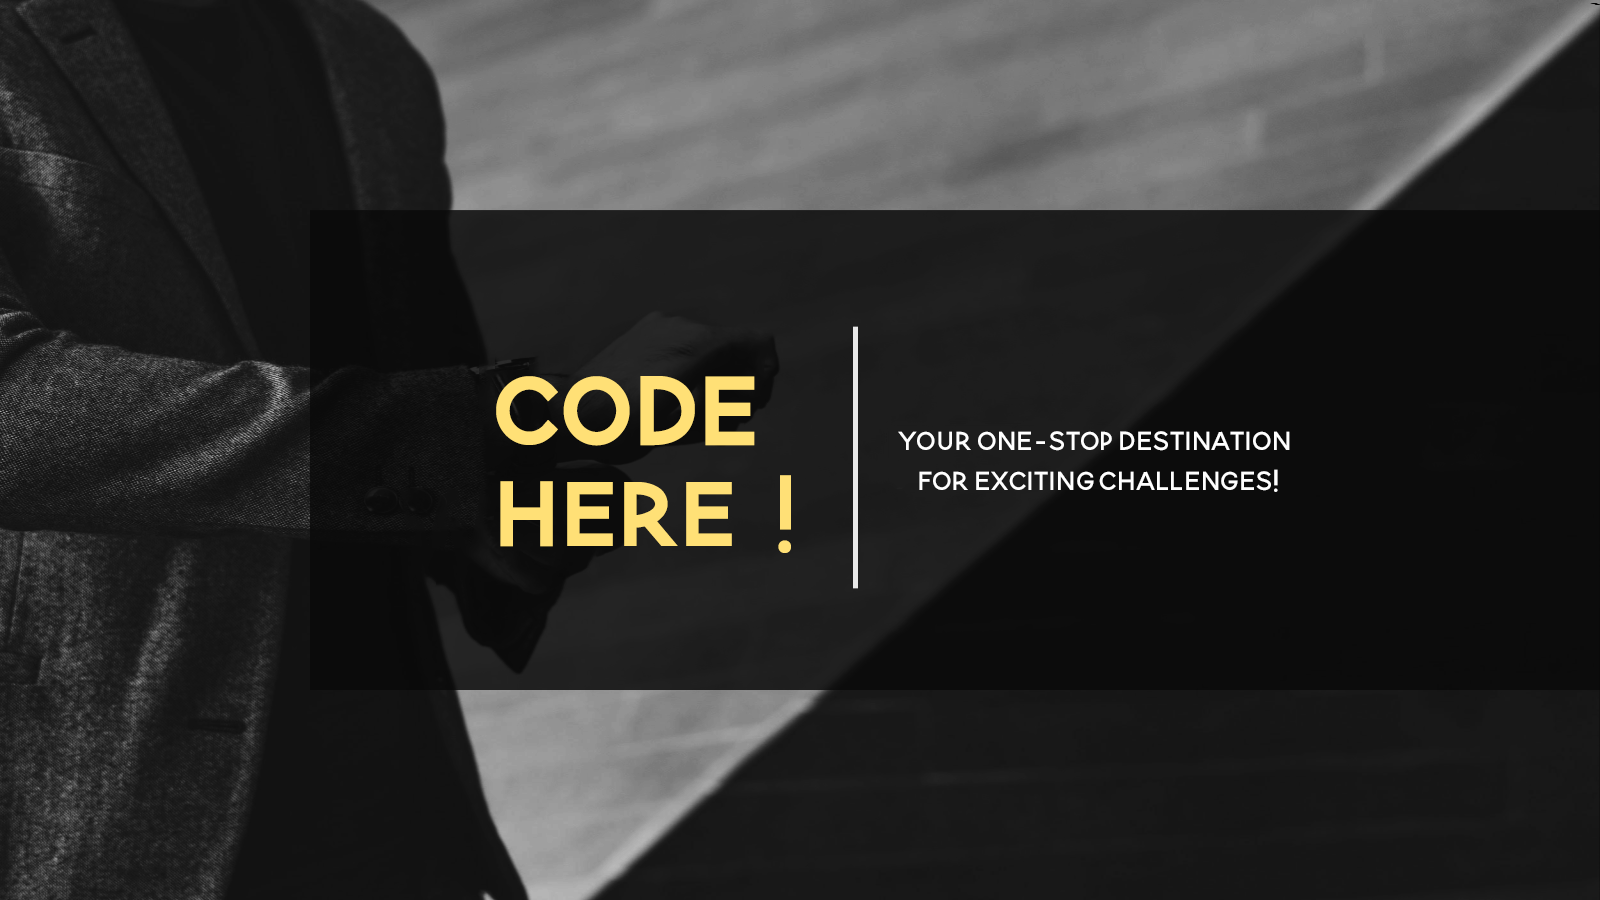
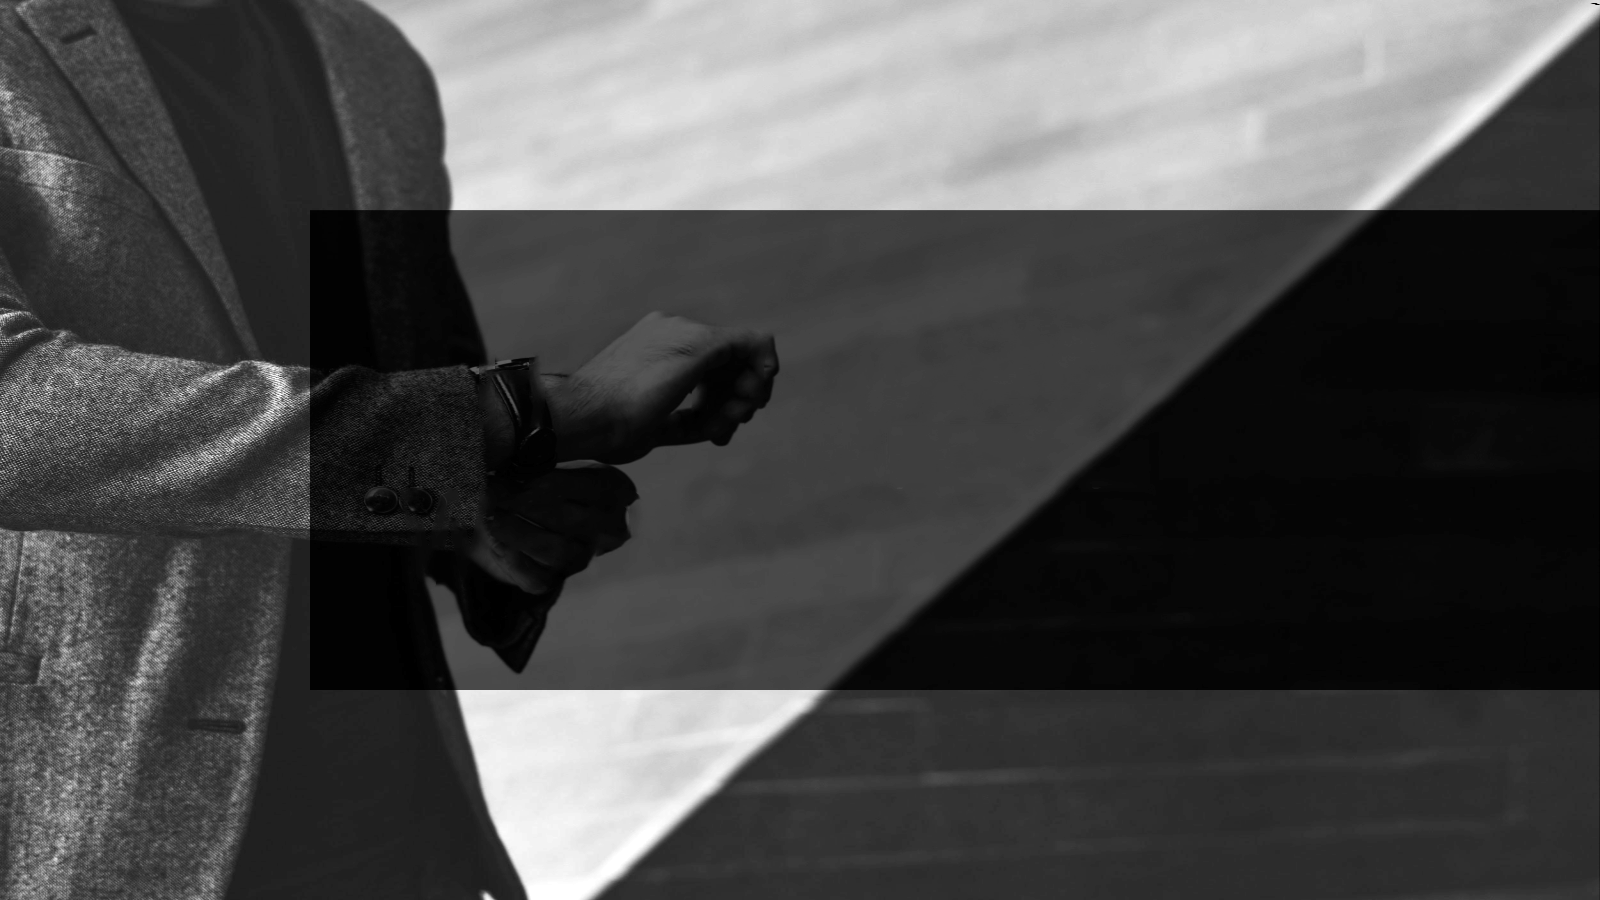
change testcase route, make footer link working, add hero background attachment as new png update admin dashboard making new .js for card

diff --git a/src/admin/DashBoard.js b/src/admin/DashBoard.js
@@ -1,50 +1,49 @@
 import React from 'react';
-import { Container, Row, Col } from 'react-bootstrap';
-import { Card } from 'react-bootstrap';
+import { Container } from 'react-bootstrap';
 import './DashBoard.css';
 import AdminNav from './AdminNav';
 import { useNavigate } from 'react-router-dom';
+import AdminDashBoardCard from './AdminDashBoardCard';
 
 function App() {
     const navigate = useNavigate();
+    const AddQuestion = {
+      title : 'Add Question',
+      text : 'Click here to add a new question to your database.',
+      color: "#ff7f50"
+    };
+    const AddTestCases = {
+      title:"Add Test Cases",
+      text:"Manage and add test cases for your questions.",
+      color:"#6cb2eb"
+    };
+    const UserMessage = {
+      title:"User Messages",
+      text:"View and respond to user messages and inquiries.",
+      color:"#51d8a9"
+    };
+    const AdminQuestionList={
+      title:"Question List",
+      text:"Update and Delete Question",
+      color:"orange"
+    };
+
   return (
     <div>
-        <AdminNav/>
-      <Container className='dashboard-container-card'>
-        <Row>
-          <Col md={4}>
-            <Card className="custom-card add-question" onClick={()=>{navigate('/admin2023/add-question')}}>
-              <Card.Body>
-                <Card.Title>Add Question</Card.Title>
-                <Card.Text>
-                  Click here to add a new question to your database.
-                </Card.Text>
-              </Card.Body>
-            </Card>
-          </Col>
-
-          <Col md={4}>
-            <Card className="custom-card add-test-cases" onClick={()=>{navigate('/admin2023/addtestcases')}}>
-              <Card.Body>
-                <Card.Title>Add Test Cases</Card.Title>
-                <Card.Text>
-                  Manage and add test cases for your questions.
-                </Card.Text>
-              </Card.Body>
-            </Card>
-          </Col>
-
-          <Col md={4}>
-            <Card className="custom-card user-messages">
-              <Card.Body>
-                <Card.Title>User Messages</Card.Title>
-                <Card.Text>
-                  View and respond to user messages and inquiries.
-                </Card.Text>
-              </Card.Body>
-            </Card>
-          </Col>
-        </Row>
+      <AdminNav/>
+      <Container className='admin-dashboard-container-card'>
+            <div onClick={()=>{navigate("/admin2023/add-question")}}>
+              <AdminDashBoardCard {...AddQuestion}/>
+            </div>
+            <div onClick={()=>{navigate("/admin2023/add-testcases")}}>
+              <AdminDashBoardCard {...AddTestCases}/>
+            </div>
+            <div>
+              <AdminDashBoardCard {...UserMessage}/>  
+            </div>
+            <div onClick={()=>{navigate("/admin2023/add-question")}}>
+              <AdminDashBoardCard {...AdminQuestionList}/>
+            </div>
       </Container>
     </div>
   );

diff --git a/src/Home/Home.js b/src/Home/Home.js
@@ -47,18 +47,18 @@ const Home = () =>{
   }
   const EasyCategory ={
     name : "EASY",
-    description: "This have `EASY` category where you can start",
-    color : 'green'
+    description: "It contains `EASY` category question where you can start",
+    color : '#03b903'
   };
   const MediumCategory = {
     name : "MEDIUM",
-    description : "This have `MEDIUM` category Question which you tried after good practice on easy questions",
-    color : '#caca09'
+    description : "It contains `MEDIUM` category Question which you tried after good practice on easy questions",
+    color : 'rgb(204, 204, 7)'
   };
   const HardCategory = {
     name : "HARD",
-    description : "This have `HARD` category question which you tried after good practice on medium questions",
-    color : 'red'
+    description : "It contains `HARD` category question which you tried after good practice on medium questions",
+    color : '#ff2e2e'
   }
   // Import testimonial components, content, and other necessary components
 
@@ -66,6 +66,16 @@ const Home = () =>{
     <div className='app'>
       <Nav />
       <section id="home" className="hero">
+          <div className='box'>
+            <div className="name"> 
+              <h1 >CODE</h1>
+              <h1 >HERE</h1>
+            </div>
+            <div className='quote'>
+              <p>YOUR ONE STOP DESTINATION</p>
+              <p>FOR EXCITING CHALLENGES!</p>
+            </div>
+          </div>
         <a className="cta-button" onClick={()=>{handleNavigateQuestionList(true,true,true)}}>Get Started</a>
       </section>
       <div className='bottom-container'>

diff --git a/src/Home/Home.css b/src/Home/Home.css
@@ -1,4 +1,5 @@
 /* App.css */
+@import url('https://fonts.googleapis.com/css2?family=Roboto+Slab:wght@400;800&display=swap');
 
 /* Global Styles */
 body {
@@ -23,7 +24,9 @@ body {
     height: 75vh;
     border-radius: 8px;
     display: flex;
-    flex-direction: column-reverse;
+    flex-direction: column;
+    justify-content: center;
+    align-items: center;
   }
   
   .hero h1 {
@@ -100,3 +103,50 @@ body {
   .contact-section{
     margin-bottom: 20px;
   }
+
+  .hero .box{
+    display: flex;
+    flex-direction: row;
+    justify-content: center;
+    align-items: center;
+    width: auto;
+    padding: 10px;
+    background-color: transparent;
+    border-radius: 0%;
+    overflow: hidden;
+  }
+
+.hero .box .name{
+  border-right: 5px solid white;
+  padding: 30px;
+  margin: 30px;
+}
+
+.hero .box .name h1{
+  font-family: 'Roboto Slab', sans-serif;
+  font-size: 82px;
+  font-weight: bolder;
+  color: #ffff8e;
+  margin: 0;
+}
+
+.hero .box .quote p{
+  font-size: 22px;
+  font-weight: 400;
+  color: white;
+  font-family: 'Roboto Slab', serif;
+  margin: 0;
+}
+
+@media (max-width: 700px) {
+  .hero .box .name {
+    border-right: none;
+    border-bottom: 5px solid white;
+  }
+}
+
+@media (max-width: 700px) {
+  .hero .box {
+    flex-direction: column;
+  }
+}

diff --git a/src/admin/DashBoard.css b/src/admin/DashBoard.css
@@ -1,62 +1,10 @@
 /* Custom styles for the cards */
-.custom-card {
-    border: none;
-    border-radius: 10px;
-    box-shadow: 0px 6px 10px rgba(0, 0, 0, 0.1);
-    transition: transform 0.3s;
-  }
   
-  .custom-card:hover {
-    transform: translateY(-5px);
-  }
-  
-  .add-question {
-    background-color: #ff7f50;
-  }
-  
-  .add-test-cases {
-    background-color: #6cb2eb;
-  }
-  
-  .user-messages {
-    background-color: #51d8a9;
-  }
-  
-  .custom-card .card-body {
-    text-align: center;
-    padding: 2rem;
-  }
-  
-  .custom-card .card-title {
-    font-size: 24px;
-    font-weight: 600;
-    color: #fff;
-  }
-  
-  .custom-card .card-text {
-    color: #fff;
-    margin-top: 10px;
-  }
-  
-  .custom-card .btn-primary {
-    background-color: #007bff;
-    border: none;
-    padding: 10px 20px;
-    border-radius: 5px;
-    color: #fff;
-    text-decoration: none;
-    display: inline-block;
-    margin-top: 15px;
-    transition: background-color 0.3s;
-  }
-  
-  .custom-card .btn-primary:hover {
-    background-color: #0056b3;
-  }
-  
-.dashboard-container-card{
+.admin-dashboard-container-card{
     height: 90vh;
     display: flex;
+    flex-wrap: wrap;
     justify-content: center;
     align-items: center;
+    margin-top: 20px;
 }

diff --git a/src/admin/AdminDashBoardCard.css b/src/admin/AdminDashBoardCard.css
@@ -1,0 +1,42 @@
+.custom-card {
+    border: none;
+    border-radius: 10px;
+    box-shadow: 0px 6px 10px rgba(0, 0, 0, 0.1);
+    transition: transform 0.3s;
+  }
+  
+  .custom-card:hover {
+    transform: translateY(-5px);
+  }
+  
+  .custom-card .card-body {
+    text-align: center;
+    padding: 2rem;
+  }
+  
+  .custom-card .card-title {
+    font-size: 24px;
+    font-weight: 600;
+    color: #fff;
+  }
+  
+  .custom-card .card-text {
+    color: #fff;
+    margin-top: 10px;
+  }
+  
+  .custom-card .btn-primary {
+    background-color: #007bff;
+    border: none;
+    padding: 10px 20px;
+    border-radius: 5px;
+    color: #fff;
+    text-decoration: none;
+    display: inline-block;
+    margin-top: 15px;
+    transition: background-color 0.3s;
+  }
+  
+  .custom-card .btn-primary:hover {
+    background-color: #0056b3;
+  }

diff --git a/src/App.js b/src/App.js
@@ -11,6 +11,7 @@ import './App.css';
 import AddTestCases from './admin/AddTestCases'
 import DashBoard from './admin/DashBoard';
 import PageNotFound from './components/PageNotFound'
+import AdminQuestionList from './admin/AdminQuestionList'
 
 const App = () => {
   return (
@@ -22,7 +23,8 @@ const App = () => {
         <Route path="/admin2023" element={<PrivatePages />}>
             <Route path="" element={<DashBoard/>} />
             <Route path="add-question" element={<AddQuestion/>}/>
-            <Route path="addtestcases" element={<AddTestCases/>}/>
+            <Route path="add-testcases" element={<AddTestCases/>}/>
+            <Route path="question-list" element={<AdminQuestionList/>}/>
         </Route>
         <Route path="*" element={<PageNotFound />} />
     </Routes>

diff --git a/src/Footer/Footer.js b/src/Footer/Footer.js
@@ -7,9 +7,9 @@ const Footer = () => {
         <footer className="section">
         <p>&copy; 2023 CodeHere</p>
         <ul className="social-links">
-          <li><a href="#">Facebook</a></li>
-          <li><a href="#">Twitter</a></li>
-          <li><a href="#">Instagram</a></li>
+          <li><a href="mailto:vk783838@gmail.com">Gmail</a></li>
+          <li><a href="https://www.linkedin.com/in/vipin-886bab25a/">LinkedIn</a></li>
+          <li><a href="https://github.com/kmvipin">Github</a></li>
           {/* Add more social media links if available */}
         </ul>
         <p>Vipin | Sumit</p>

diff --git a/src/admin/AdminDashBoardCard.js b/src/admin/AdminDashBoardCard.js
@@ -1,0 +1,21 @@
+import './AdminDashBoardCard.css'
+import { Card } from 'react-bootstrap'
+
+import React from 'react'
+
+const AdminDashBoardCard = (props) => {
+    const {title,text,color} = props;
+    console.log(props);
+  return (
+    <Card className="custom-card add-question" style={{backgroundColor:color}}>
+        <Card.Body>
+            <Card.Title>{title}</Card.Title>
+            <Card.Text>
+                {text}
+            </Card.Text>
+        </Card.Body>
+    </Card>
+  )
+}
+
+export default AdminDashBoardCard
